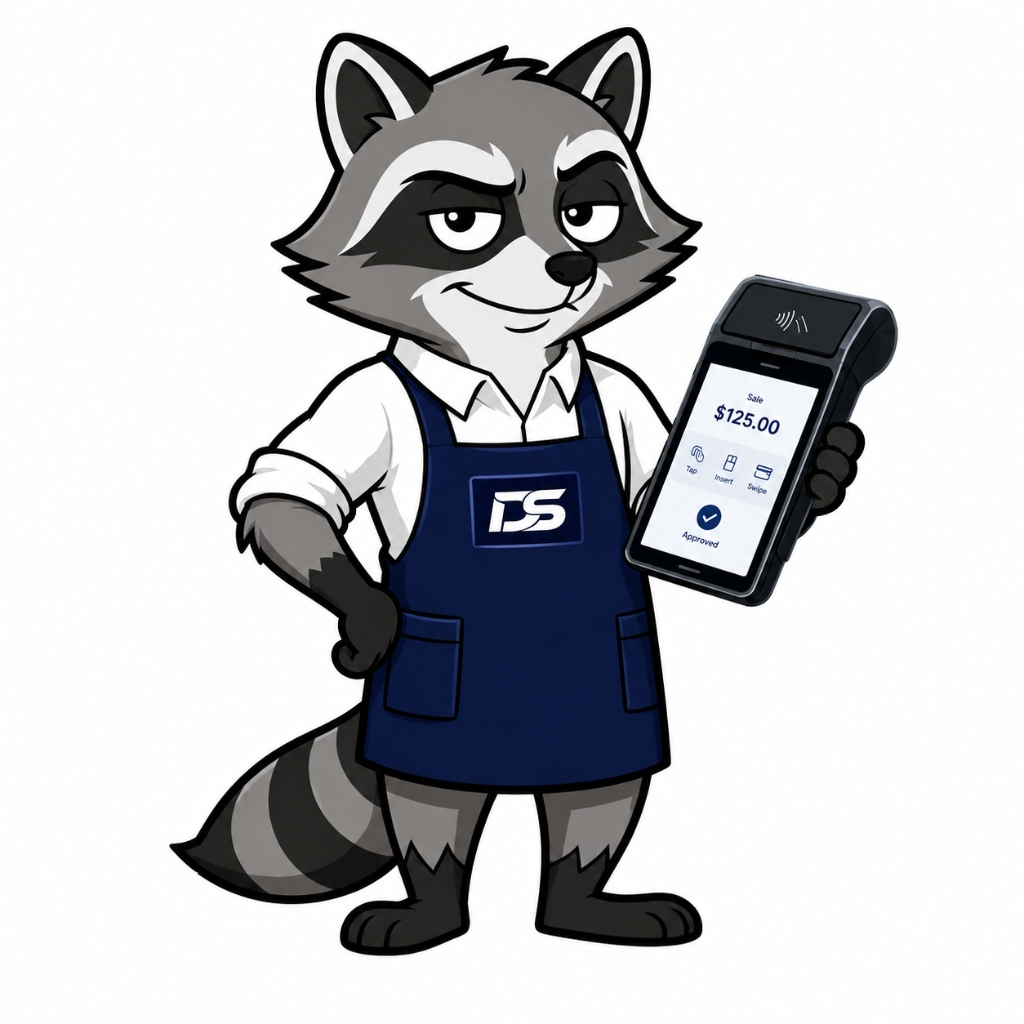
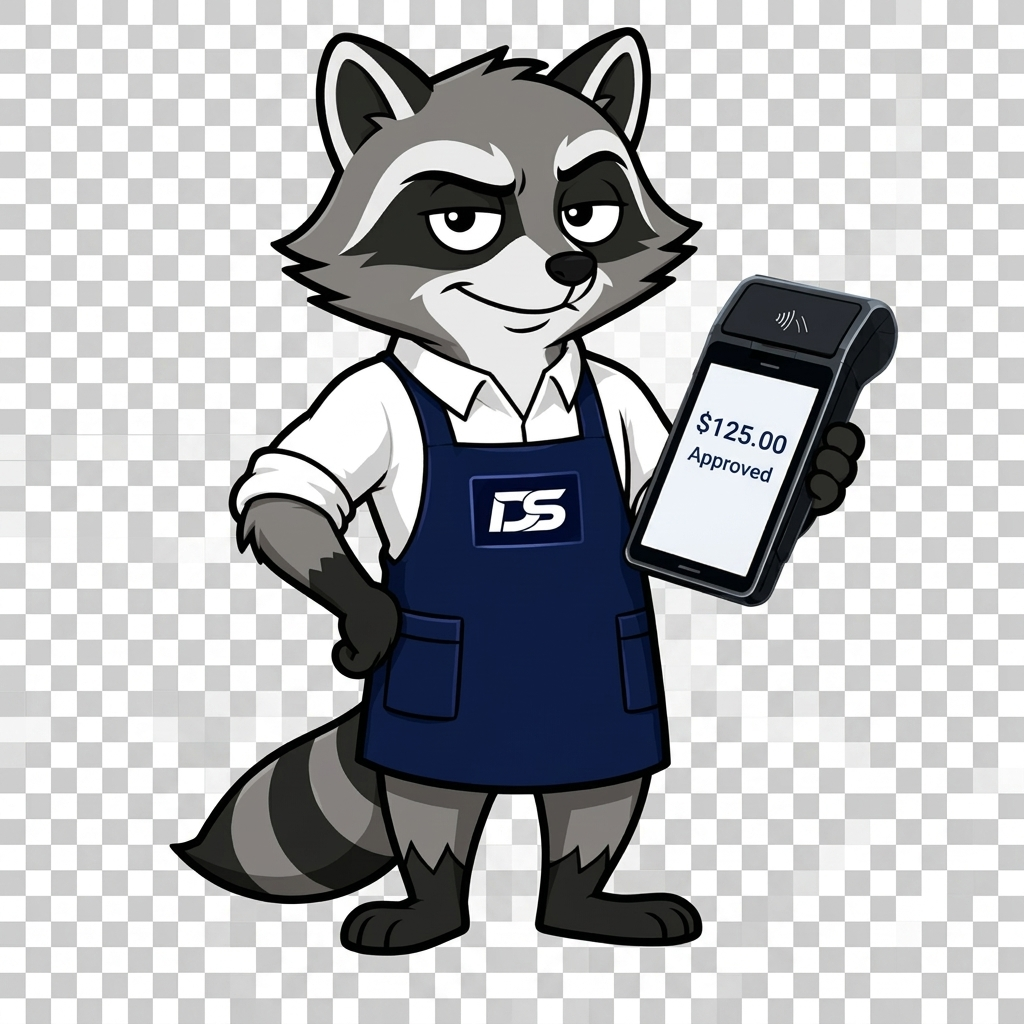
fix: replace Rocco with transparent PNG - remove all blend mode hacks

diff --git a/app/page.module.css b/app/page.module.css
@@ -140,8 +140,7 @@
 }
 .roccoImg {
   object-fit: contain;
-  mix-blend-mode: multiply;
-  filter: brightness(1.15) contrast(1.05) drop-shadow(0 20px 40px rgba(46,91,255,0.35));
+  filter: drop-shadow(0 20px 40px rgba(46,91,255,0.35));
   animation: roccoFloat 4s ease-in-out 0.5s infinite;
 }
 @keyframes roccoFloat {
@@ -293,8 +292,7 @@
   object-fit: contain;
   position: relative;
   z-index: 1;
-  mix-blend-mode: multiply;
-  filter: brightness(1.18) contrast(1.06) drop-shadow(0 10px 40px rgba(46,91,255,0.4));
+  filter: drop-shadow(0 10px 50px rgba(46,91,255,0.4));
   animation: roccoFloat 5s ease-in-out infinite;
 }
 

diff --git a/app/about/page.module.css b/app/about/page.module.css
@@ -15,7 +15,7 @@
   background: radial-gradient(circle, rgba(46,91,255,0.25) 0%, transparent 60%);
   filter: blur(30px); pointer-events: none;
 }
-.roccoImg { object-fit: contain; mix-blend-mode: multiply; filter: brightness(1.15) contrast(1.05) drop-shadow(0 10px 30px rgba(46,91,255,0.35)); position: relative; z-index: 1; }
+.roccoImg { object-fit: contain; filter: drop-shadow(0 10px 30px rgba(46,91,255,0.35)); position: relative; z-index: 1; }
 .roccoRight {}
 .roccoTitle {
   font-family: var(--font-display); font-size: clamp(32px, 4vw, 50px);

diff --git a/app/contact/page.module.css b/app/contact/page.module.css
@@ -26,7 +26,7 @@
 .successDesc { font-size: 16px; color: rgba(255,255,255,0.6); line-height: 1.6; }
 .infoPanel { display: flex; flex-direction: column; gap: 20px; }
 .roccoCard { padding: 28px; display: flex; align-items: center; gap: 20px; }
-.roccoImg { object-fit: contain; mix-blend-mode: multiply; filter: brightness(1.15) contrast(1.05); flex-shrink: 0; }
+.roccoImg { object-fit: contain; filter: drop-shadow(0 4px 16px rgba(46,91,255,0.3)); flex-shrink: 0; }
 .roccoName { font-family: var(--font-display); font-size: 16px; font-weight: 700; color: #fff; margin-bottom: 2px; }
 .roccoSub { font-size: 12px; color: var(--ds-cyan); font-weight: 600; margin-bottom: 10px; letter-spacing: 0.05em; }
 .roccoQuote { font-size: 13px; color: rgba(255,255,255,0.55); line-height: 1.5; font-style: italic; }

diff --git a/components/Footer.module.css b/components/Footer.module.css
@@ -45,7 +45,7 @@
   align-items: center;
   gap: 12px;
 }
-.rocco { object-fit: contain; mix-blend-mode: multiply; filter: brightness(1.15) contrast(1.05); }
+.rocco { object-fit: contain; filter: drop-shadow(0 4px 14px rgba(46,91,255,0.3)); }
 .roccoBubble {
   background: rgba(46,91,255,0.12);
   border: 1px solid rgba(91,173,255,0.25);